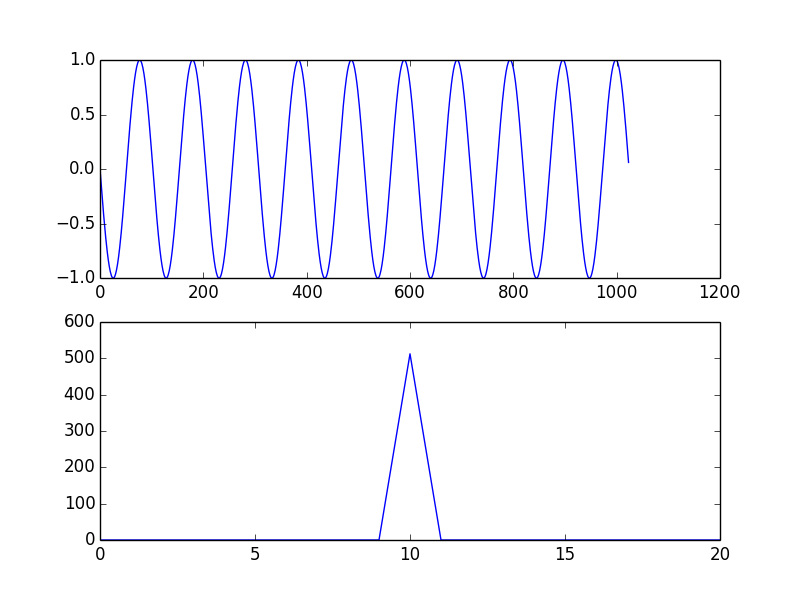
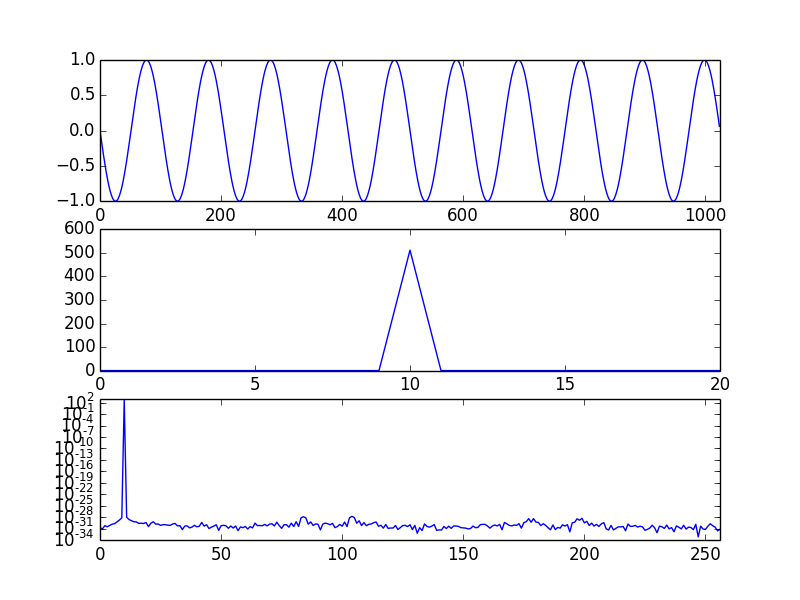
Last commitment for Ass#3

Changed region(s): [[0.0625, 0.09, 0.9375, 0.93], [0.0938, 0.15, 0.125, 0.24], [0.875, 0.09, 0.9062, 0.12]]

diff --git a/Assignment3/Problem2/fft_co2.py b/Assignment3/Problem2/fft_co2.py
@@ -1,0 +1,81 @@
+import matplotlib.pyplot as plt
+
+from fft import fft, fft_power, ifft
+from numpy import array, real
+import math
+import time
+
+
+print ' CO2 Data Analysis '
+data_file_name = 'co2_mm_mlo.txt'
+file = open(data_file_name, 'r')
+lines = file.readlines()
+file.close()
+print ' read', len(lines), 'lines from', data_file_name
+
+window = True
+
+yinput = []
+xinput = []
+
+for line in lines :
+    if line[0] != '#' :
+        try:
+            words = line.split()
+            xval = float(words[0])
+            yval = float( words[4] )
+            yinput.append( yval )
+            xinput.append( xval )
+        except ValueError :
+            print 'bad data:',line
+
+
+N = len(yinput)
+log2N = math.log(N, 2)
+if log2N - int(log2N) > 0.0 :
+    print 'Padding with zeros!'
+    pads = [320.0] * (pow(2, int(log2N)+1) - N)
+    yinput = yinput + pads
+    N = len(yinput)
+    print 'Padded : '
+    print len(yinput)
+    # Apply a window to reduce ringing from the 2^n cutoff
+    if window : 
+        for iy in xrange(len(yinput)) :
+            yinput[iy] = yinput[iy] * (0.5 - 0.5 * math.cos(2*math.pi*iy/float(N-1)))
+
+y = array( yinput ) 
+x = array([ float(i) for i in xrange(len(y)) ] )
+Y = fft(y)
+
+
+maxfreq = 82
+# Now smooth the data
+for iY in range(maxfreq, len(Y)-maxfreq ) :
+    #Y[iY] = complex(0,0)
+    Y[iY] = Y[iY] * (0.5 - 0.5 * math.cos(2*math.pi*iY/float(N-1)))
+
+#for iY in range(0,N) :
+#       Y[iY] = Y[iY] * math.exp(-1.0*iY / 50.0)
+
+powery = fft_power(Y)
+powerx = array([ float(i) for i in xrange(len(powery)) ] )
+
+Yre = [math.sqrt(Y[i].real**2+Y[i].imag**2) for i in xrange(len(Y))]
+
+ysmoothed = ifft(Y)
+ysmoothedreal = real(ysmoothed)
+
+ax1 = plt.subplot(2, 1, 1)
+p1, = plt.plot( x, y )
+p2, = plt.plot( x, ysmoothedreal )
+ax1.legend( [p1,p2], ['Original', 'Smoothed'] )
+
+ax2 = plt.subplot(2, 1, 2)
+p3, = plt.plot( powerx, powery )
+p4, = plt.plot( x, Yre )
+ax2.legend( [p3, p4], ["Power", "Magnitude"] )
+plt.yscale('log')
+
+
+plt.show()

diff --git a/Assignment3/Problem2/fft.py b/Assignment3/Problem2/fft.py
@@ -1,0 +1,60 @@
+from cmath import exp, pi
+from math import sin, cos
+import matplotlib.pyplot as plt
+
+import numpy
+from numpy.fft import fft
+from numpy import array, conj, divide
+
+
+
+def discrete_transform(data):
+    """Return Discrete Fourier Transform (DFT) of a complex data vector"""
+    N = len(data)
+    transform = [ 0 ] * N
+    for k in range(N):
+        for j in range(N):
+            angle = 2 * pi * k * j / N
+            transform[k] += data[j] * exp(1j * angle)
+    return transform
+
+def fft(x):
+    N = len(x)
+    if N <= 1: return x
+    elif N % 2 == 1:         # N is odd, lemma does not apply
+        print 'N is ' + str(N) + ', fall back to discrete transform'
+        return discrete_transform(x)
+    even = fft(x[0::2])
+    odd =  fft(x[1::2])
+    return [even[k] + exp(-2j*pi*k/N)*odd[k] for k in xrange(N/2)] + \
+           [even[k] - exp(-2j*pi*k/N)*odd[k] for k in xrange(N/2)]
+
+
+def fft_power(x) :
+    N = len(x)
+    if N <=1 : return x
+    power = [ 0.0 ] * (N/2+1)
+    power[0] = abs(x[0])**2
+    for i in range(1,N/2) :
+        power[i] = abs(x[i])**2 + abs(x[N-i])**2
+    power[N/2] = abs(x[N/2])**2
+    for i in range(0,N/2+1) :
+        power[i] /= float(N)
+    return power
+
+
+def ifft(x) :
+    # conjugate the complex numbers
+    x = conj(x)
+ 
+    # forward fft
+    X = fft( x );
+ 
+    # conjugate the complex numbers again
+    X = conj(X)
+ 
+    # scale the numbers
+    X = divide(X, len(X))
+
+    return X
+    
